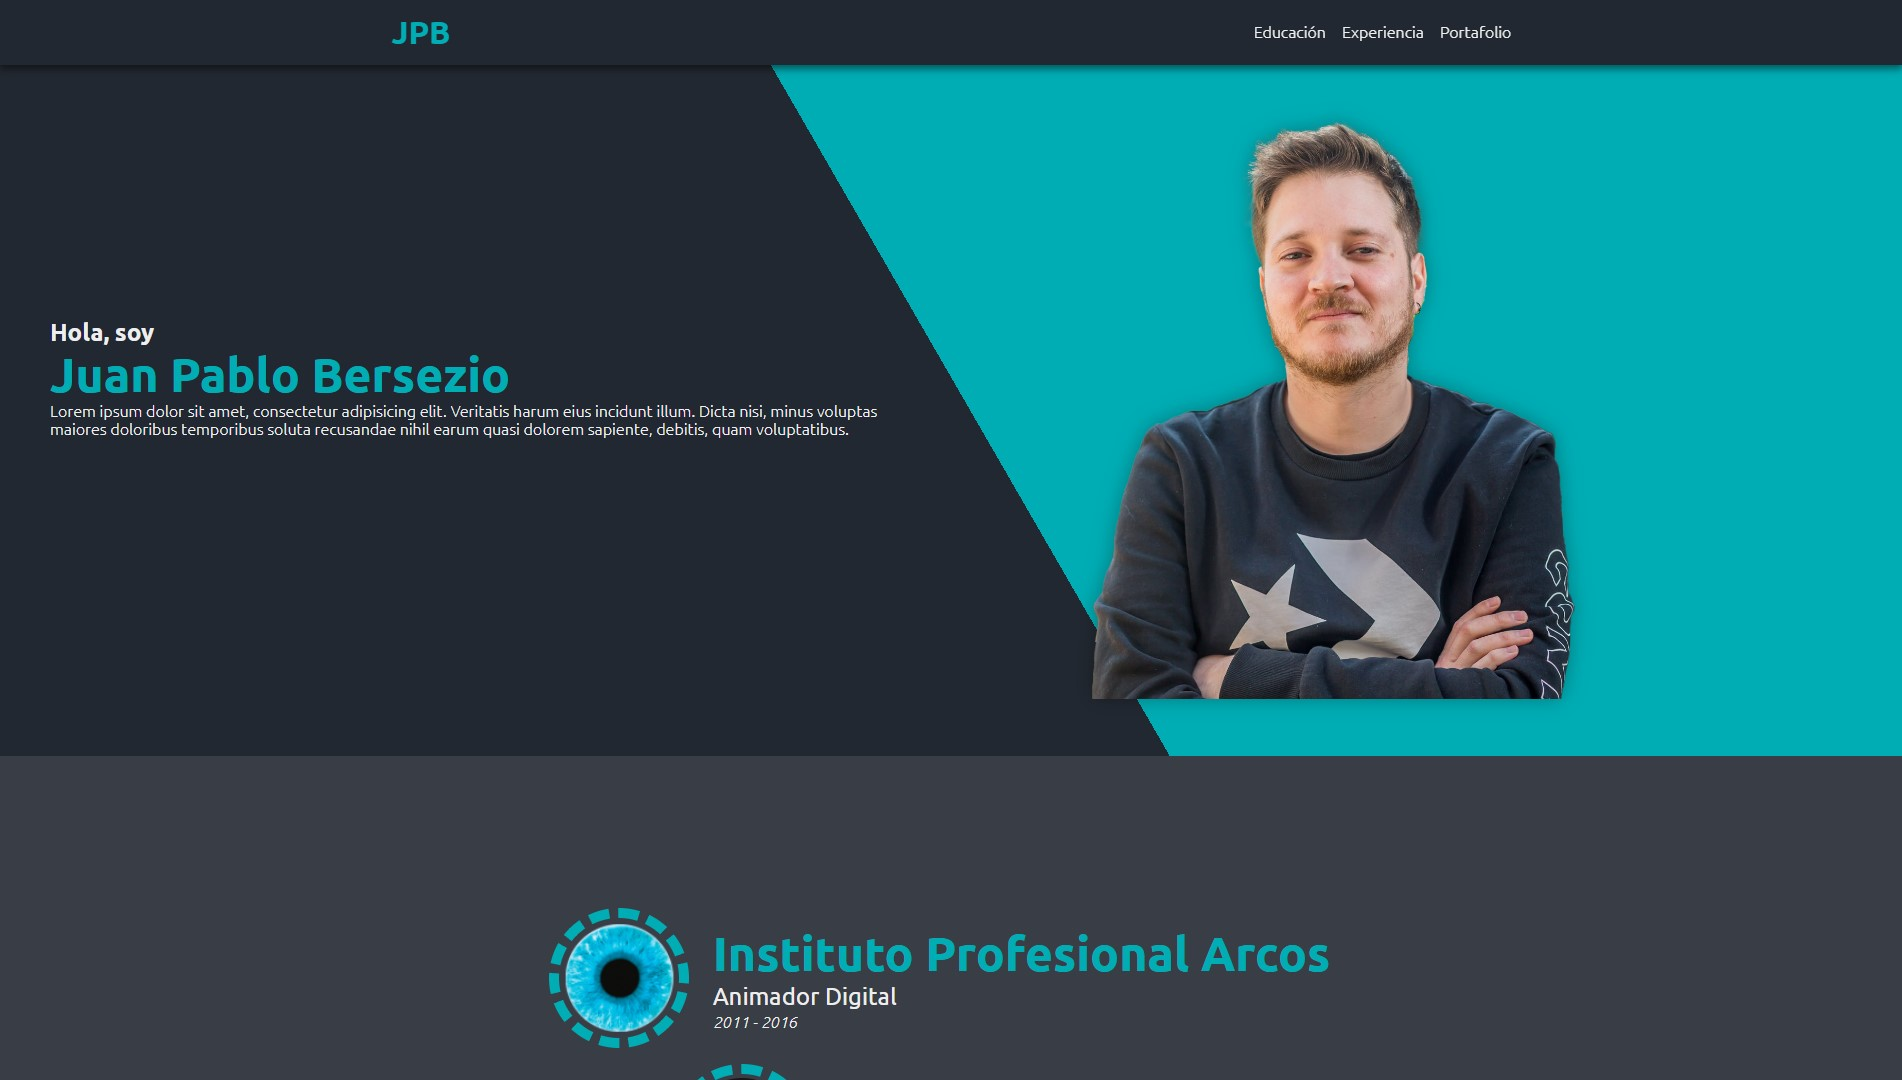
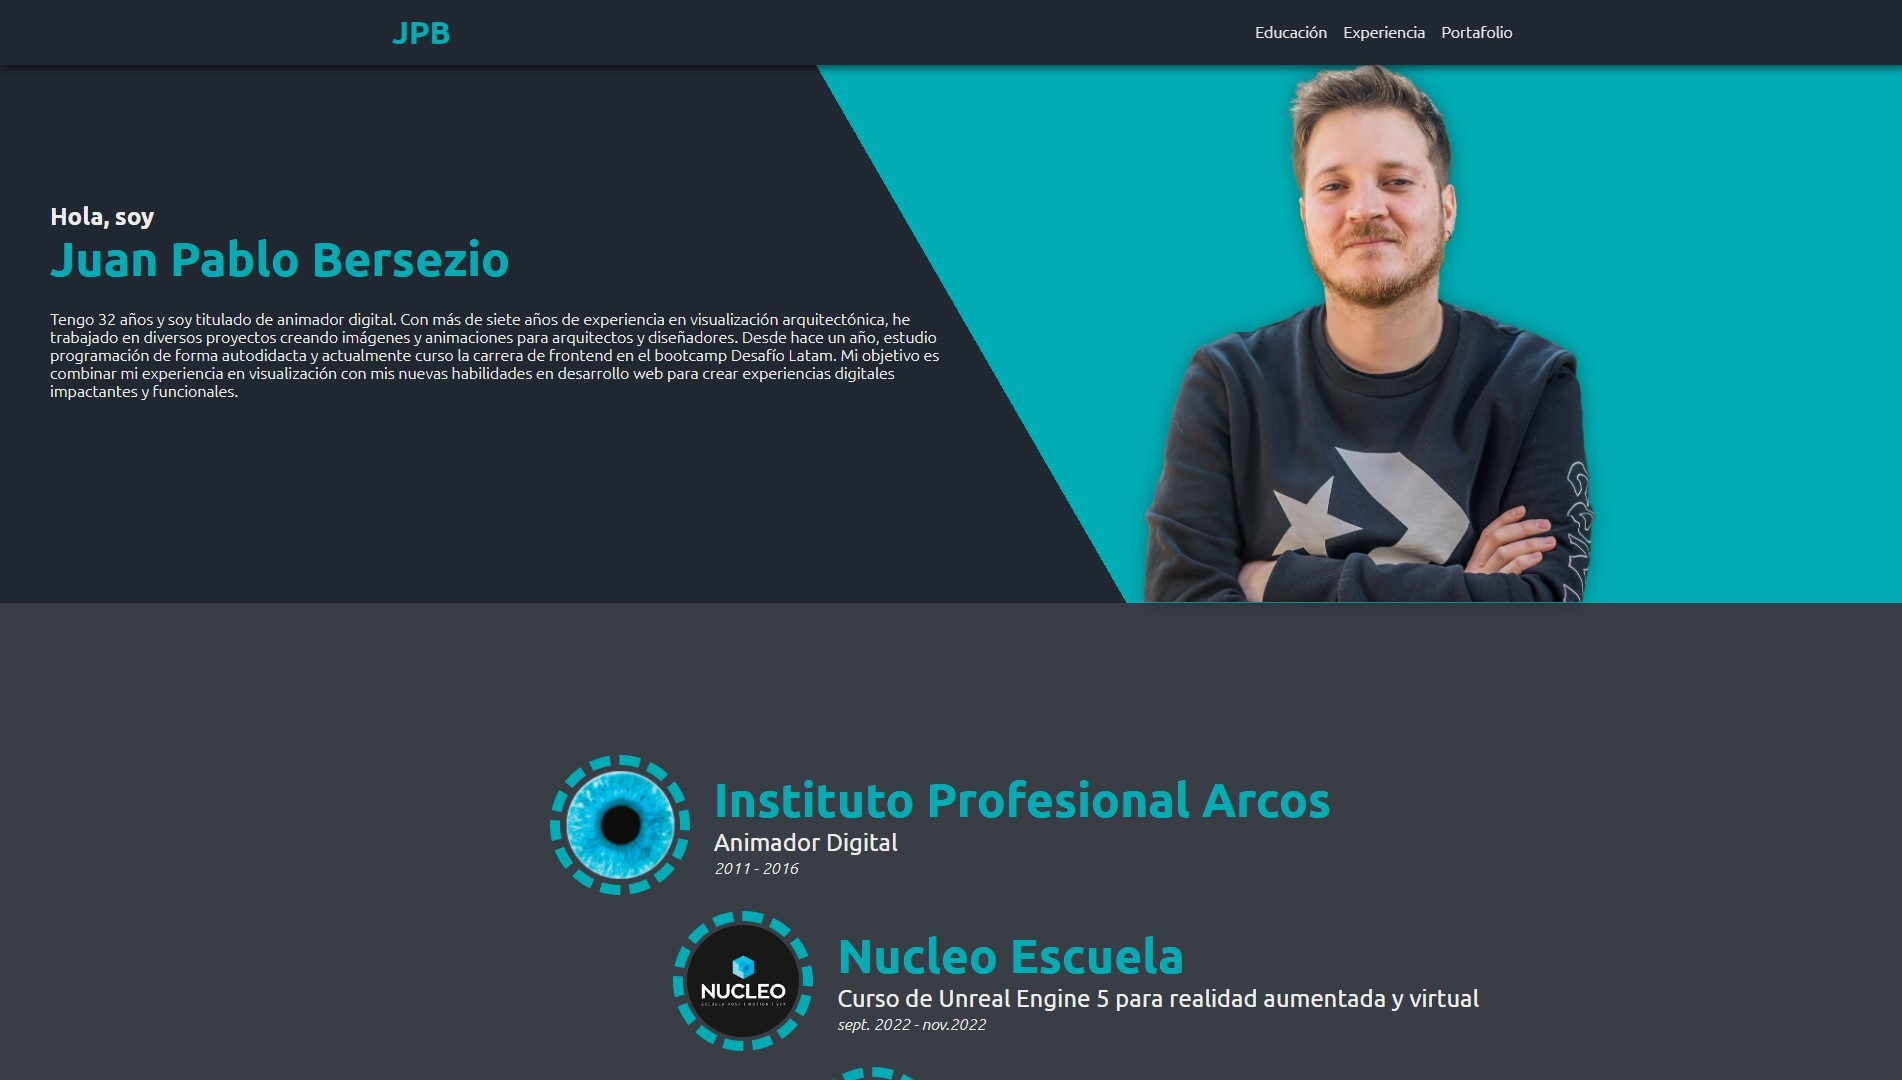
Cambios en parrafo hero section y en formato de imagenes portafolio

Changed region(s): [[0.031, 0.0306, 1.0, 0.7028], [0.2792, 0.6722, 0.7755, 1.0], [0.4343, 0.9778, 0.4963, 1.0]]

diff --git a/index.html b/index.html
@@ -22,7 +22,7 @@
                 <article class="hero-text-content">
                     <h3>Hola, soy</h3>
                     <h2>Juan Pablo Bersezio</h2>
-                    <p>Lorem ipsum dolor sit amet, consectetur adipisicing elit. Veritatis harum eius incidunt illum. Dicta nisi, minus voluptas maiores doloribus temporibus soluta recusandae nihil earum quasi dolorem sapiente, debitis, quam voluptatibus.</p>
+                    <p>Tengo 32 años y soy titulado de animador digital. Con más de siete años de experiencia en visualización arquitectónica, he trabajado en diversos proyectos creando imágenes y animaciones para arquitectos y diseñadores. Desde hace un año, estudio programación de forma autodidacta y actualmente curso la carrera de frontend en el bootcamp Desafío Latam. Mi objetivo es combinar mi experiencia en visualización con mis nuevas habilidades en desarrollo web para crear experiencias digitales impactantes y funcionales.</p>
                 </article>
                 <figure>
                     <img src="./assets/img/hero_img.png" alt="Foto de Juan Pablo Bersezio">

diff --git a/assets/css/style.css b/assets/css/style.css
@@ -48,7 +48,6 @@
 }
 
 .hero-sec {
-    height: 70vh;
     display: flex;
     flex-direction: column;
     justify-content: space-between;
@@ -72,6 +71,7 @@
     font-size: 1.6rem;
     color: var(--optional-color);
     font-weight: lighter;
+    padding-top: 2.4rem;
 }
 
 .hero-text-content h2 {
@@ -88,6 +88,7 @@
 
 .hero-content img {
     max-width: 100%;
+    height: auto;
     filter: drop-shadow(
         0 0 10px rgba(0, 0, 0, .3)
     );
